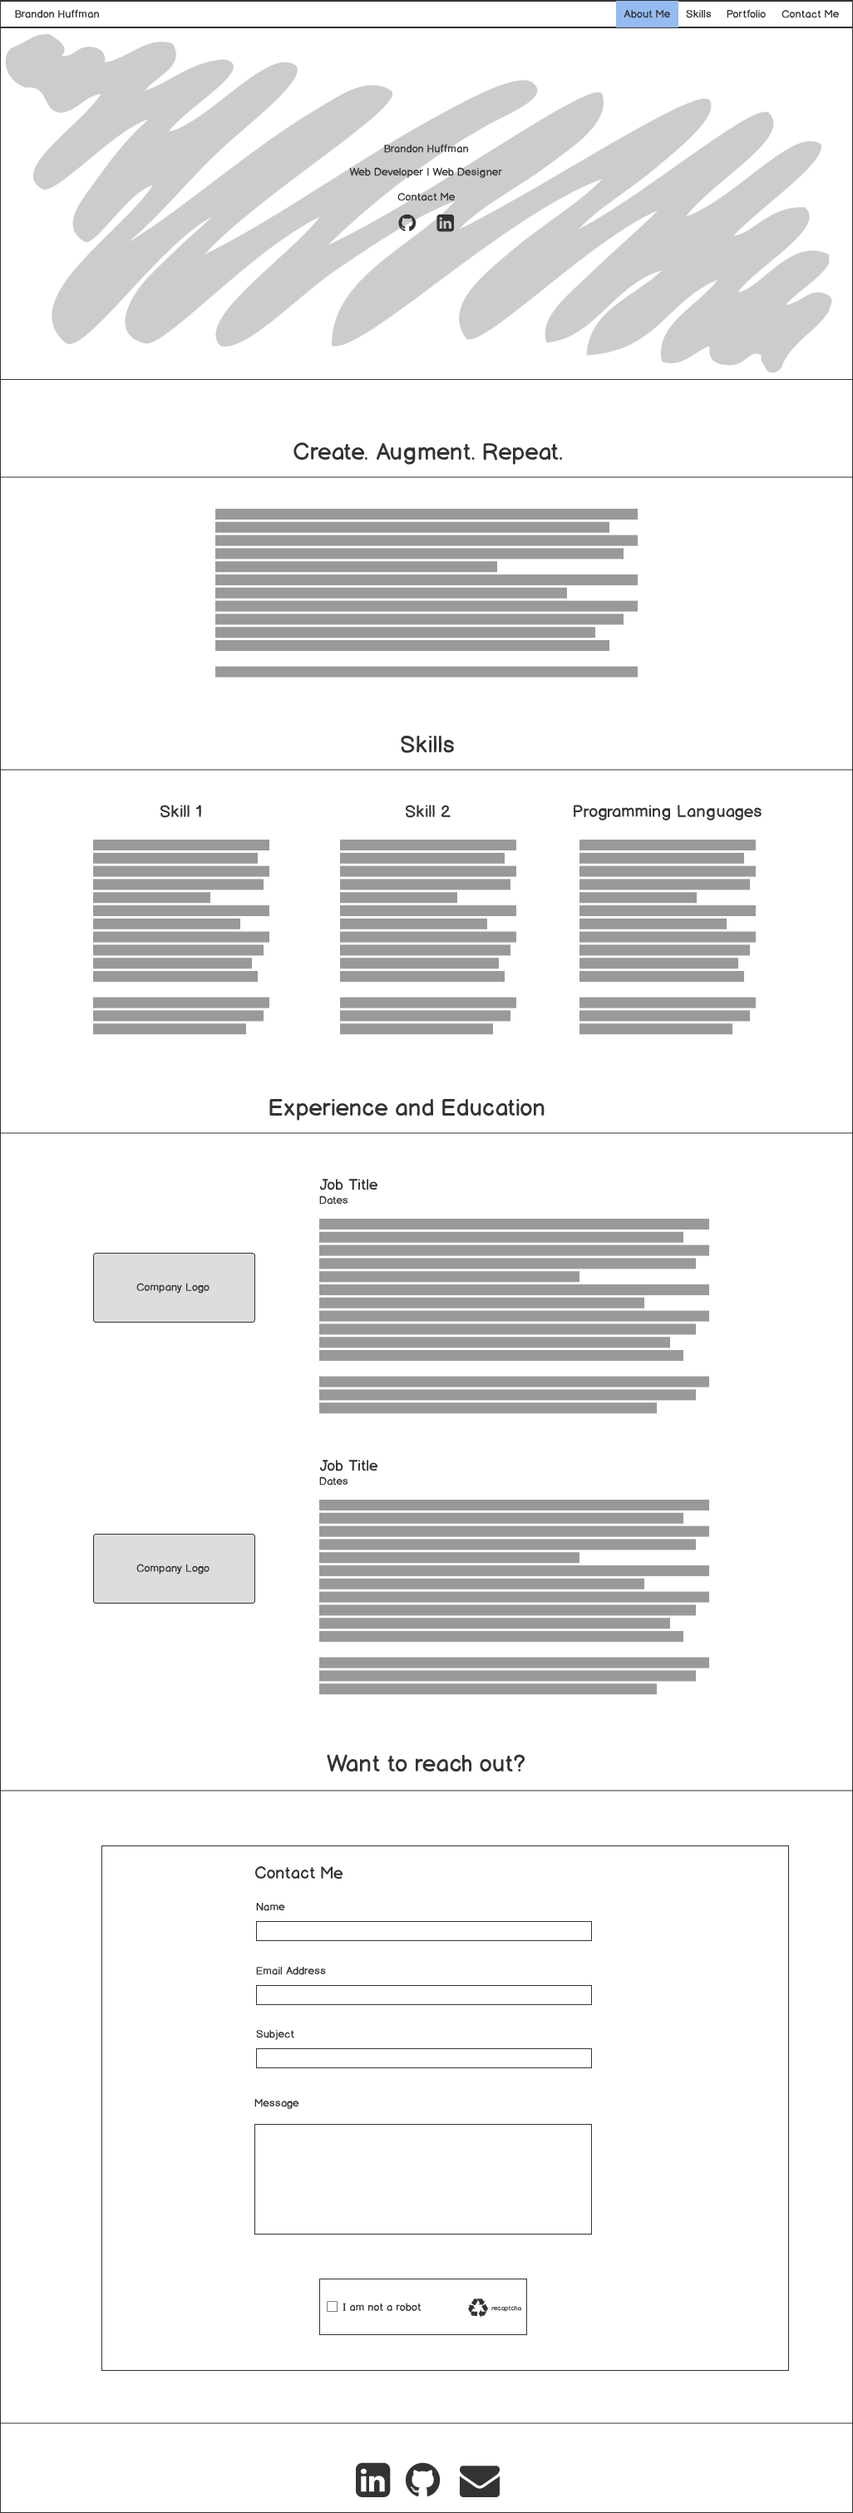
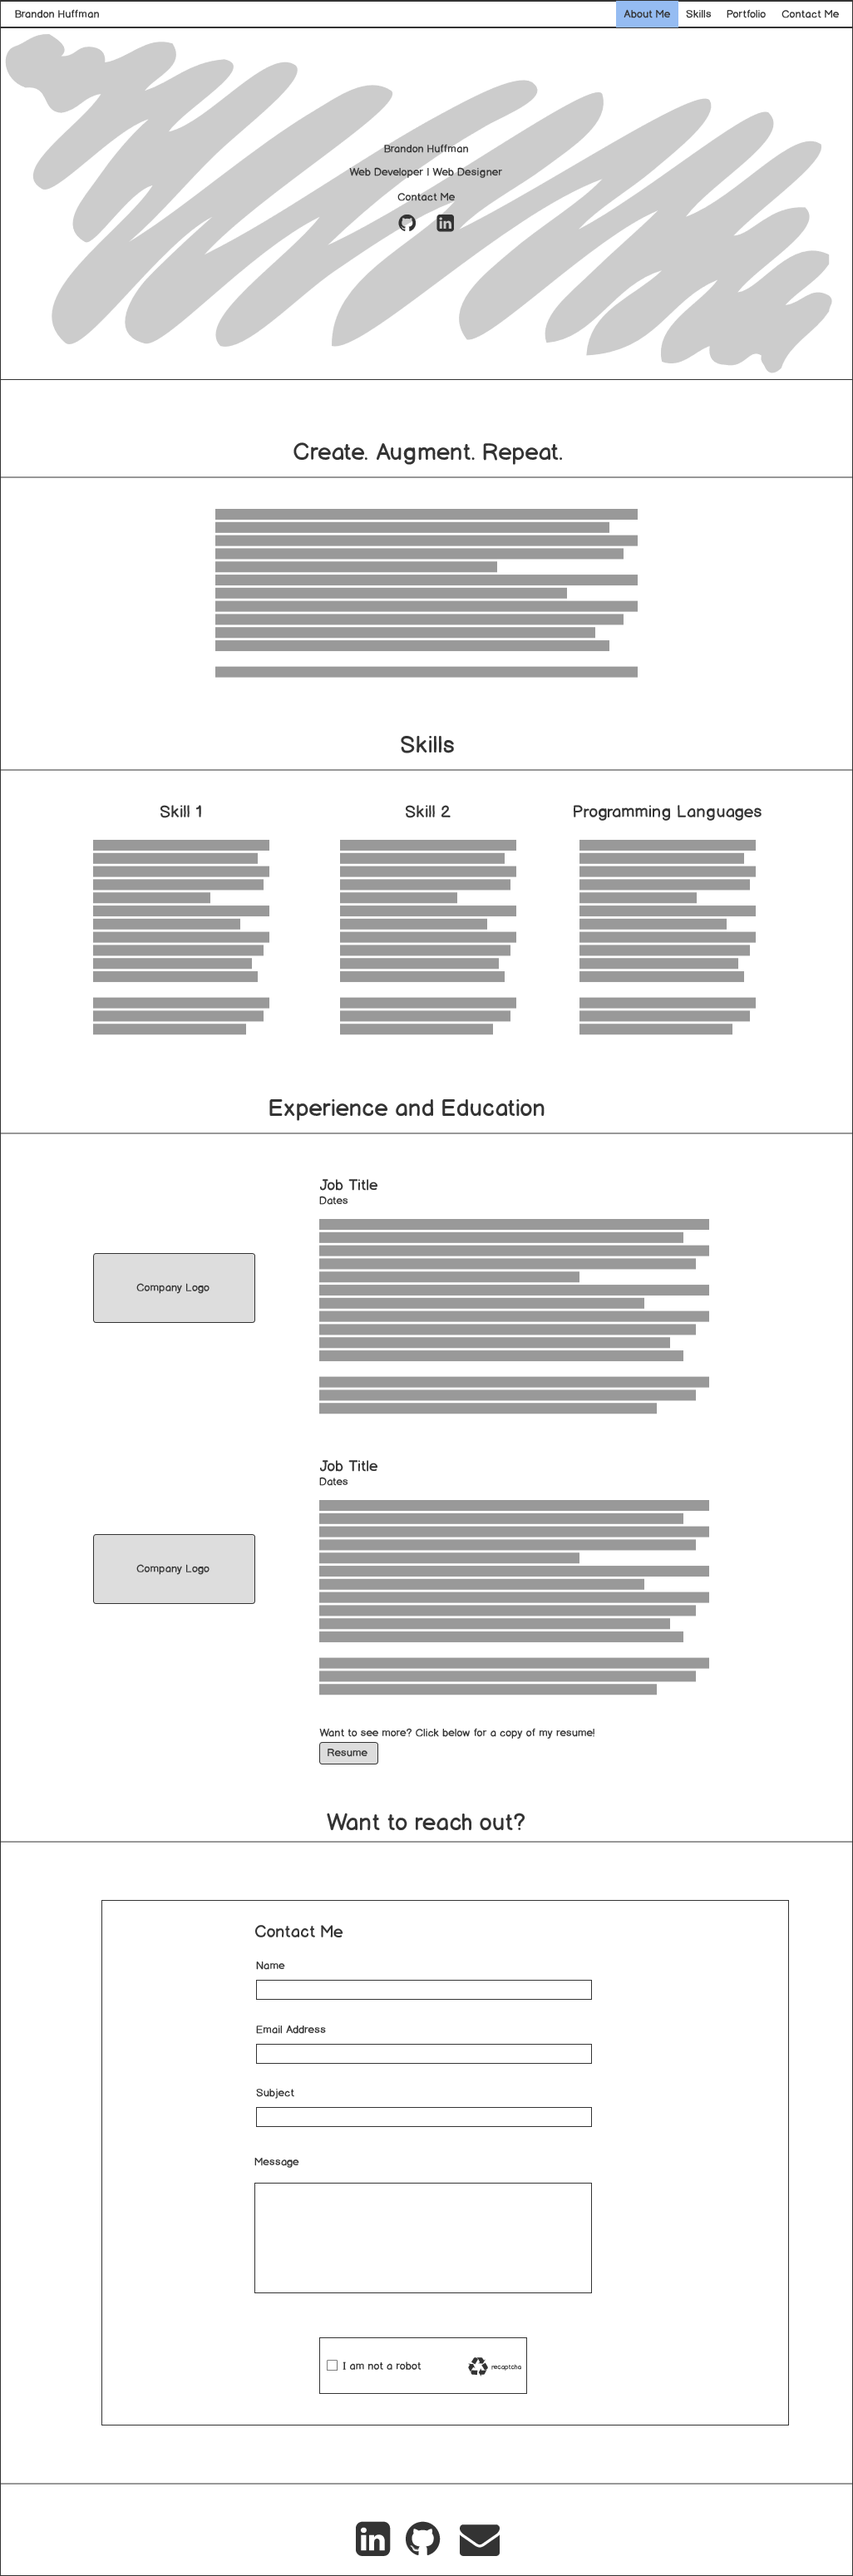
Updated desktop wireframe with a link to my resume.

diff --git a/public_html/documentation/milestone-2.php b/public_html/documentation/milestone-2.php
@@ -19,7 +19,7 @@
 		One of these skills will be coding languages.</p>
 		<p><strong>Experience:</strong> This section will detail the most pertinent job and educational experiences that
 		expand my abilities into the field of software development. This is meant to highlight only a few so I might attach
-		a link to my full resume here. I would like to have the logo of the companies I worked for here which when clicked
+		a link toa pdf of my resume here. I would like to have the logo of the companies I worked for here which when clicked
 		opens up a new tab with their homepage. </p>
 		<p><strong>Contact Me:</strong>This section will contain a standard and secure contact form followed by the footer
 			which will contain my email address, additional links to my github and linkedIn. </p>
